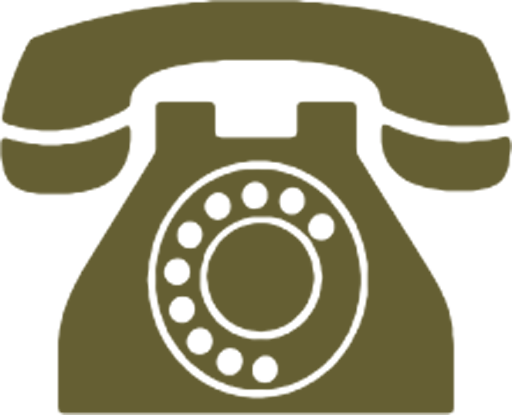
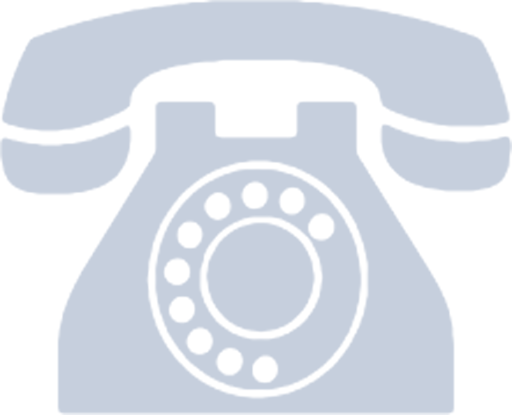
changed color scheme for home page

diff --git a/app/assets/stylesheets/splash.scss b/app/assets/stylesheets/splash.scss
@@ -8,15 +8,15 @@
   #phone {
     margin-bottom: 40px;
   }
-  background-color: #333f50;
+  background-color: #a5b9d6;
   #organizer-splash {
     background-image: url( "phone_background.png");
     background-repeat: no-repeat;
-    background-position: 90% 33%;
-    background-color: #333f50;
+    background-position: 88% 26%;
+    background-color: #a5b9d6;
     font-weight: 300;
     font-size: 16px;
-    color: rgb(251,181,9);
+    color: white;
 
     -webkit-font-smoothing: antialiased;
     -webkit-overflow-scrolling: touch;
@@ -29,7 +29,7 @@
     }
 
     h1, h2 {
-      color: rgb(251,181,9);
+      color: white;
     }
 
   
@@ -42,7 +42,8 @@
 
     /* Links */
     a {
-       color: rgb(251,181,9);
+       font-weight: bold;
+       color: #ff8619;
        word-wrap: break-word;
 
        -webkit-transition: color 0.1s ease-in, background 0.1s ease-in;
@@ -70,7 +71,7 @@
 
     .btn-theme {
        color: #ffffff;
-       background-color: rgb(251,181,9);
+       background-color: #ff8619;
        border-color: transparent;
     }
 
@@ -92,7 +93,7 @@
         padding-top: 0;
       }
       .signup-box {
-        background-color: #4f5b6d; 
+        background-color: #d2dbe8; 
       }
       form#new_email_subscriber {
         text-align: center;
@@ -125,14 +126,13 @@
           letter-spacing: 3px;
        }
        h2 {
-          color: rgb(251,181,9);
           font-weight: 400;
           font-size: 1.8em;
        }
     }
 
     #how-works {
-      background-color: #4f5b6d; 
+      background-color: whitesmoke; 
       padding-top: 0;
       padding-bottom: 0;
       margin-bottom: 0px;
@@ -143,7 +143,7 @@
         padding-top: 0;
       }
       h2 {
-         color: white;
+         color: #4b4f4f;
          font-weight: 400;
          margin-top: 0;
       }
@@ -153,7 +153,7 @@
       }
       
       p {
-        color: white;
+        color: #4b4f4f;
         font-weight: 400;
         font-size: 20px;
         padding-top: 1em;
